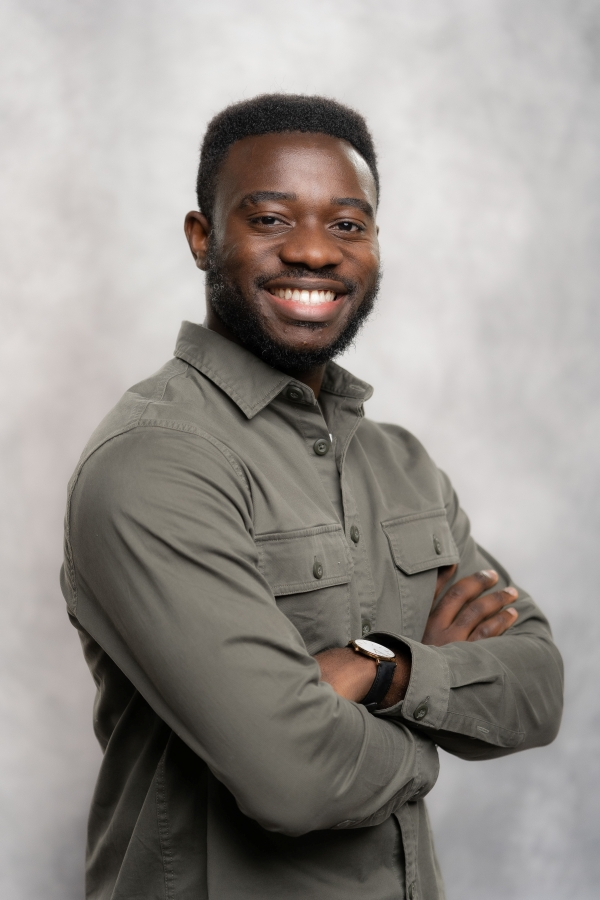
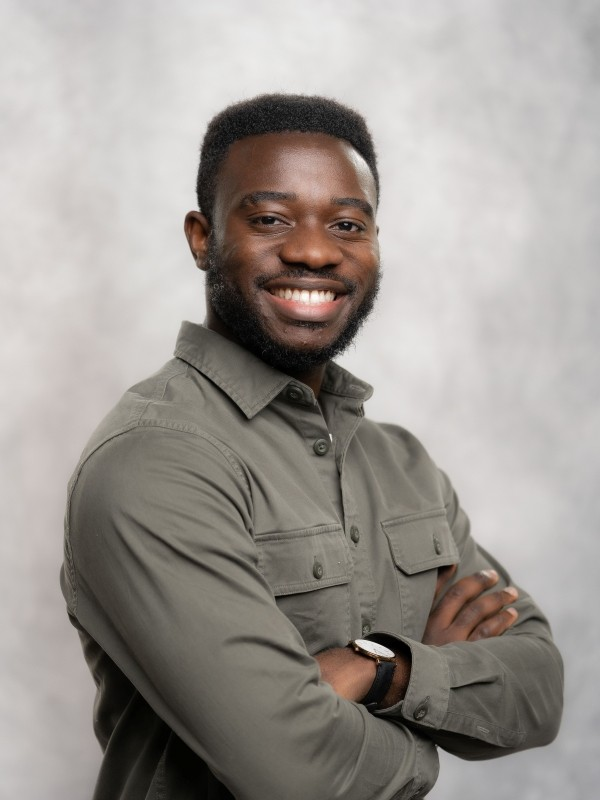
team section done photo sizes need to be uniform currently height auto 3:4 aspect ratio

diff --git a/src/pages/team.jsx b/src/pages/team.jsx
@@ -14,50 +14,64 @@ function Team() {
 
 
         <div className="team-card"> 
-          <img src={photo1} alt="Team-Member-1" />
+
+          <div className="team-card-image ">
+            <img src={photo1} alt="Team-Member-1" />
+          </div>
+
+
             <div className =  "team-description"> 
-              <h2> hello</h2>
-              <p> Role </p>
-              <p> </p>
+              <h2> Joseph </h2>
+              <p className = "Role"> Co-Founder </p>
+              <p className = "Bio" > </p>
             </div>
         </div>
 
 
 
         <div className="team-card"> 
+
+          <div className="team-card-image ">
             <img src={photo2} alt="Team-Member-2" />
+          </div>
               <div className =  "team-description"> 
-                <h2>  hello</h2>
-                <p> Role </p>
-                <p></p>
+                <h2> Efe </h2>
+              <p className = "Role"> Co-Founder </p>
+              <p className = "Bio" > </p>
               </div>
         </div>
 
 
         <div className="team-card"> 
-          <img src="" alt="Team-Member-3" />
+              <div className="team-card-image ">
+                <img src="" alt="Team-Member-3" />
+              </div>
             <div className =  "team-description"> 
-              <h2> </h2>
-                <p> Role </p>
-                <p></p>
+              <h2> Seyi </h2>
+              <p className = "Role"> Front-End Developer </p>
+              <p className = "Bio" > </p>
             </div>
         </div>
 
         <div className="team-card"> 
-          <img src="" alt="Team-Member-4" />
+              <div className="team-card-image ">
+                <img src="" alt="Team-Member-4" />
+              </div>
             <div className =  "team-description"> 
-              <h2> </h2>
-                <p> Role </p>
-                <p></p>
+              <h2> Juan Pablo Camacho </h2>
+              <p className = "Role"> Role </p>
+              <p className = "Bio" > </p>
             </div>        
           </div>
           
         <div className="team-card"> 
-          <img src="" alt="Team-Member-5" />
+              <div className="team-card-image ">
+                <img src="" alt="Team-Member-5" />
+              </div>
               <div className =  "team-description"> 
               <h2> </h2>
-                <p> Role </p>
-                <p></p>
+              <p className = "Role"> Role </p>
+              <p className = "Bio" > </p>
             </div>
         </div>
       

diff --git a/src/pages/team.css b/src/pages/team.css
@@ -1,54 +1,92 @@
 .team-section {
+    max-width:80vw;
     display:flex;
     flex-direction:column;
     align-items: center;
     justify-content: center;
-    gap:5rem;
+    gap:3rem;
+    margin:0  auto;
+    padding:2rem;
     
 }
 
 .team-section h1{
     font-weight:900;
     font-size:5rem;
+    text-align: center;
 }
 
 .team-section-cards {
-    max-width:80vw;
     display:flex;
-    flex-direction:row;
-    align-items: center ;
-    justify-content: center;
     flex-wrap: wrap;
-    gap:5rem;
+    justify-content: center;
+    gap:2rem;
 }
 
 
 
 
 .team-card {
-    width:300px;
-    height:500px;
+    width:280px;
+    height:auto;
+    min-height:350px;
     border-radius:20px;
     background:#D9D9D9;
     overflow:hidden;
+
+
     display:flex;
     flex-direction:column;
-    align-items:center;
-    justify-content: center;
-    margin:0;
+    
+    box-shadow: 0 4px 20px rgba(0, 0, 0, 0.1);
+    transition: transform 0.3s ease, box-shadow 0.3s ease;
+}   
+
+.team-card:hover {
+    transform:translateY(-8px);
+    box-shadow: 0 8px 30px rgba(0, 0, 0, 0.15);
 }
 
+.team-card-image{
+    height:70%;
+    overflow:hidden;
+    position:relative;
+}
 
 .team-card img {
-    width: 240px;  /* fixed size */
-    height: 320px; /* fixed size */
-    border-radius: 50%; /* keep it circular */
+    width:100%;
+    height:100% ;
     object-fit: cover;
-    margin: 20px auto; /* center it in the card */
+    transition:transform 0.3s ease;
+}
+
+team-card:hover img {
+    transform:sclae(1.05);
 }
 
 .team-description{
-    height:40%;
-    padding:40px;
+    height:30%;
+    padding:1.5rem;
+    display:flex;
+    flex-direction: column;
+    justify-content: center;
     text-align:center;
+}
+
+.team-description h2 {
+    font-size:1.25rem;
+    font-weight:600;
+    margin-bottom: 0.5rem;
+}
+
+.team-description .role {
+    font-size:0.9rem;
+    font-weight:500;
+    text-transform:uppercase;
+}
+
+.team-description .bio {
+    font-size:0.85rem;
+    margin-top:0.5rem;
+    line-height:1.4;
 }
